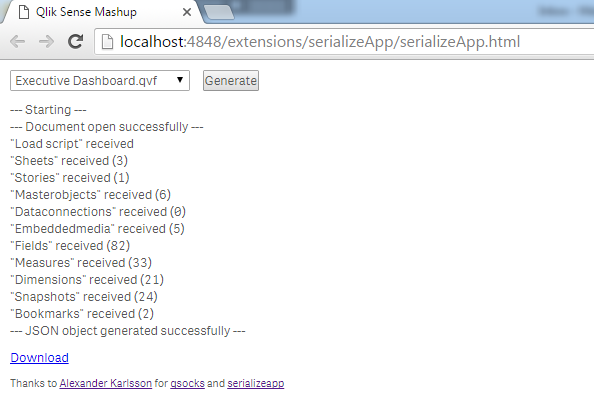
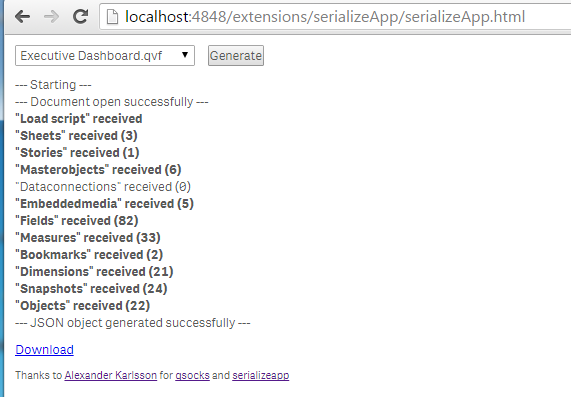
v0.7.1
* rows with more than 0 children are bold
* objects count is added
* screenshot and zip files are updated

Changed region(s): [[0.0, 0.0, 1.0, 0.9754]]

diff --git a/serialize.bundle.js b/serialize.bundle.js
@@ -228,6 +228,7 @@ var getConnections = require('./getDataConnections');
 
 serializeAppBundle = 
   function serializeApp(app, callback) {
+    var objects = 0;
 	if(!app || typeof app.createSessionObject !== 'function') {
 		throw new Error('Expects a valid qsocks app connection')
 	};
@@ -252,7 +253,7 @@ serializeAppBundle =
 			return appObj.properties = properties; 
 		})
 		.then(function () {
-		  	$( '#status' ).append( '"Load script" received <br />' );
+		  	$( '#status' ).append( '<b>"Load script" received </b> <br/>' );
 			return app.getScript().then(function (script) { return appObj.loadScript = script; })
 		})
 		.then(function () {
@@ -261,7 +262,16 @@ serializeAppBundle =
 			})).then(function (data) { return LISTS.forEach(function(d, y) {   
 			  var lists = Object.keys(d)[0];
 			  lists = lists.replace(lists[0], lists[0].toUpperCase());
-			  $( '#status' ).append( '"' + lists + '" received (' + data[y].length + ') <br /> ' );
+        if( data[y].length > 0) {
+           if( lists === 'Sheets' ) {
+              for( var i = 0; i < data[y].length; i ++ ) {
+                objects += data[y][i].qChildren.length;
+              }
+           }
+			     $( '#status' ).append( '<b>"' + lists + '" received (' + data[y].length + ')</b> <br /> ' );
+        } else {
+          $( '#status' ).append( '"' + lists + '" received (' + data[y].length + ') <br /> ' );
+        }
 			  appObj[Object.keys(d)[0]] = data[y] }); });
 		})
 		.then(function () {	
@@ -271,13 +281,22 @@ serializeAppBundle =
 				
 				return METHODS[key](app).then(function(data) {
 				  var keyDescr = key.replace(key[0], key[0].toUpperCase()); // returns Master 
-				  $( '#status' ).append( '"' + keyDescr + '" received (' + data.length + ') <br /> ' );
+          
+          if( data.length > 0 ) {
+				      $( '#status' ).append( '<b>"' + keyDescr + '" received (' + data.length + ')</b> <br /> ' );
+          } else {
+              $( '#status' ).append( '"' + keyDescr + '" received (' + data.length + ') <br /> ' );
+          }
 				  return appObj[key] = data 
 				});
 			}));		
 		})
 		.then(function() {
-		  
+          if( objects > 0 ) {
+				      $( '#status' ).append( '<b>"Objects" received (' + objects + ')</b> <br /> ' );
+          } else {
+              $( '#status' ).append( '<b>"Objects" received (' + objects + ')</b> <br /> ' );
+          }		  
 			return appObj;
 		})
 		.nodeify(callback);
